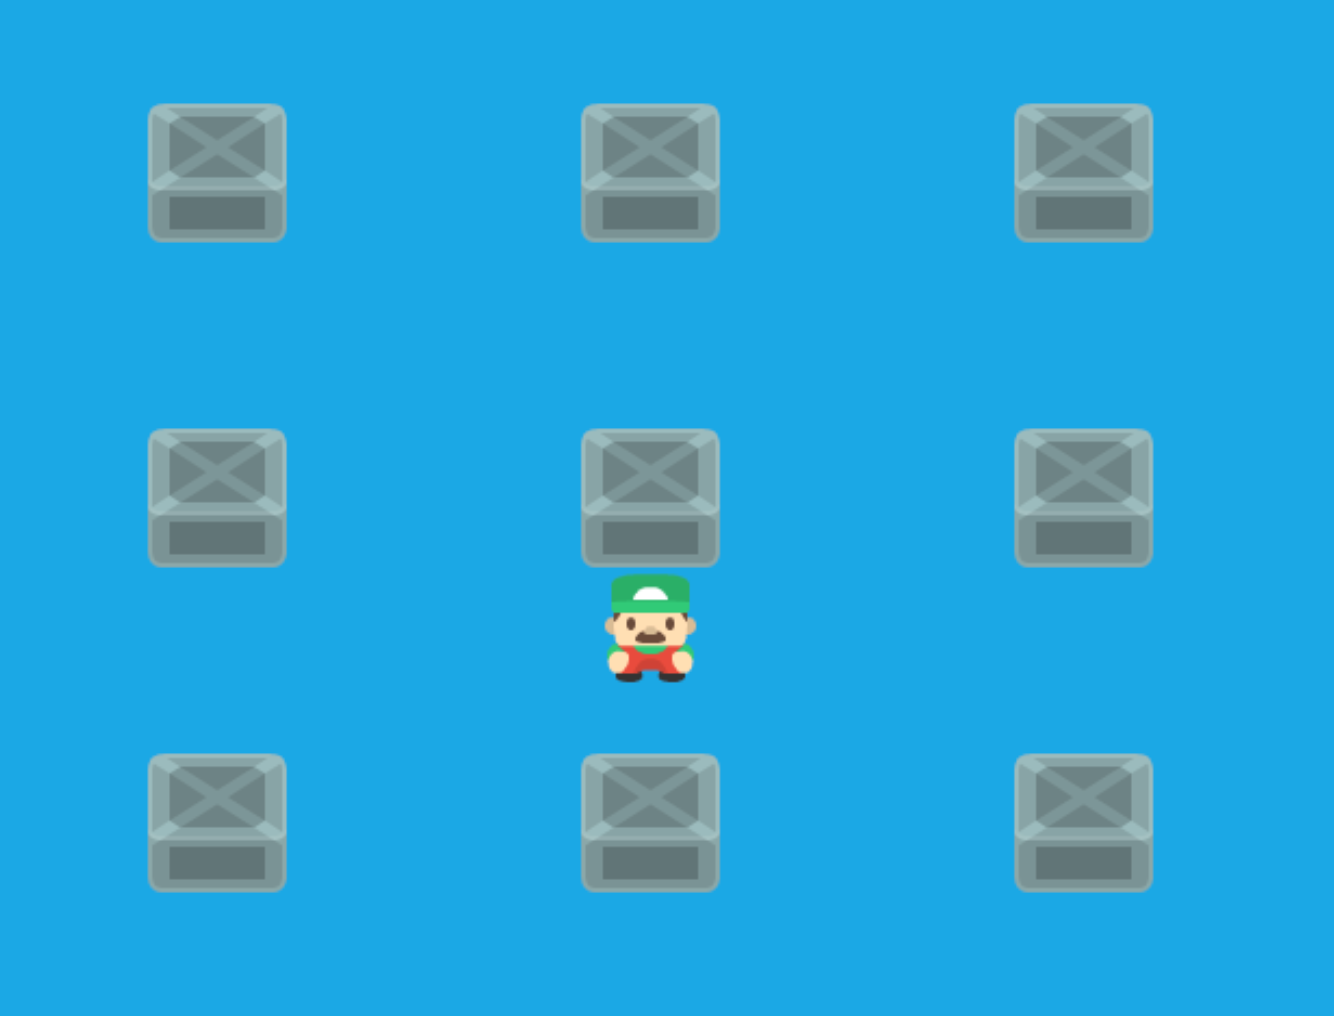
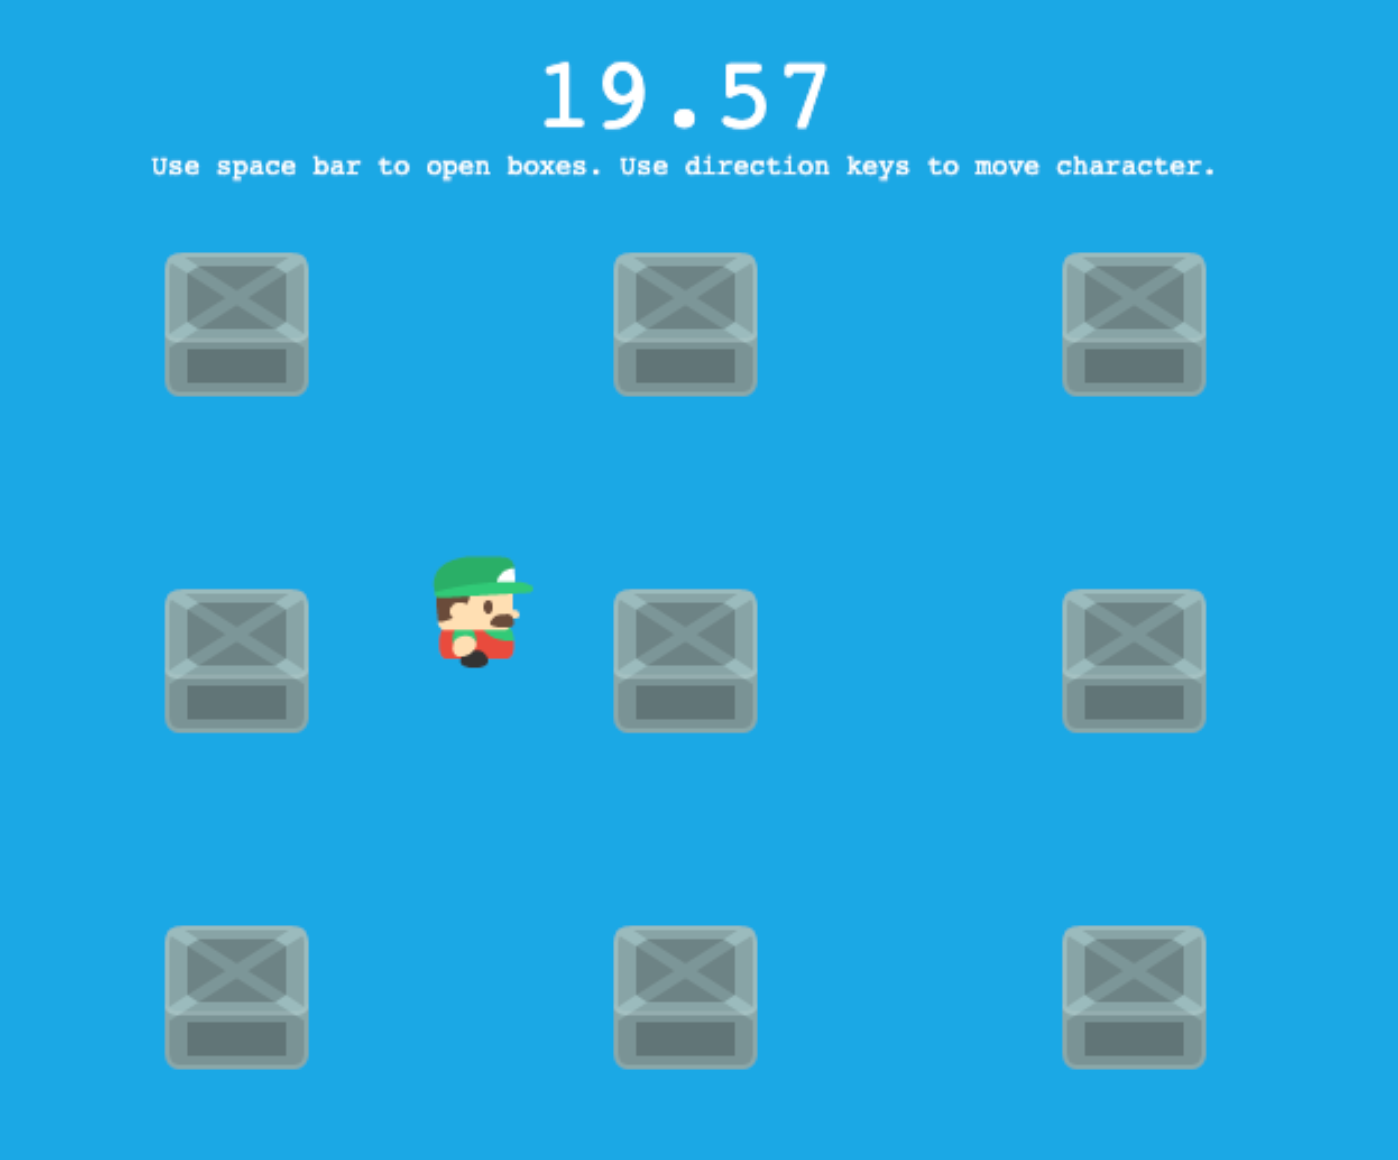
add directions and update screenshot

diff --git a/dist/assets/index.a8484678.js b/dist/assets/index.a8484678.js
@@ -6006,4 +6006,4 @@ return new `+this.key+`();
 * @author       Richard Davey <rich@photonstorm.com>
 * @copyright    2020 Photon Storm Ltd.
 * @license      {@link https://opensource.org/licenses/MIT|MIT License}
-*/var d=t(33),a=t(17),o={Actions:t(275),Animations:t(723),BlendModes:t(35),Cache:t(735),Cameras:t(738),Core:t(806),Class:t(0),Create:t(888),Curves:t(894),Data:t(896),Display:t(898),DOM:t(917),Events:t(918),Game:t(920),GameObjects:t(1011),Geom:t(483),Input:t(1308),Loader:t(1338),Math:t(193),Physics:t(1493),Plugins:t(1403),Renderer:t(1405),Scale:t(1412),ScaleModes:t(168),Scene:t(418),Scenes:t(1413),Structs:t(1415),Textures:t(1416),Tilemaps:t(1418),Time:t(1461),Tweens:t(1463),Utils:t(1481)};o.Sound=t(1492),o=a(!1,o,d),p.exports=o,n.Phaser=o}).call(this,t(600))}])})})(Ct);const Tt=Ft(Ct.exports),At={type:Tt.AUTO,parent:"game",backgroundColor:"#33A5E7",scale:{width:800,height:600,mode:Tt.Scale.FIT,autoCenter:Tt.Scale.CENTER_BOTH},physics:{default:"arcade",arcade:{gravity:{y:0}}}};class Ot extends Tt.Scene{constructor(){super("preloader")}preload(){this.load.spritesheet("sokoban","textures/sokoban_tilesheet.png",{frameWidth:64}),this.load.image("burger","textures/burger.png"),this.load.image("croissant","textures/croissant.png"),this.load.image("donutSprinkles","textures/donutSprinkles.png"),this.load.image("sushiSalmon","textures/sushiSalmon.png"),this.load.image("taco","textures/taco.png")}create(){this.add.image(400,500,"burger"),this.add.image(400,500,"croissant"),this.add.image(400,500,"donutSprinkles"),this.add.image(400,500,"sushiSalmon"),this.add.image(400,500,"taco"),this.anims.create({key:"down-idle",frames:[{key:"sokoban",frame:52}]}),this.anims.create({key:"down-walk",frames:this.anims.generateFrameNumbers("sokoban",{start:52,end:54}),frameRate:10,repeat:-1}),this.anims.create({key:"up-idle",frames:[{key:"sokoban",frame:55}]}),this.anims.create({key:"up-walk",frames:this.anims.generateFrameNumbers("sokoban",{start:55,end:57}),frameRate:10,repeat:-1}),this.anims.create({key:"left-idle",frames:[{key:"sokoban",frame:81}]}),this.anims.create({key:"left-walk",frames:this.anims.generateFrameNumbers("sokoban",{start:81,end:83}),frameRate:10,repeat:-1}),this.anims.create({key:"right-idle",frames:[{key:"sokoban",frame:78}]}),this.anims.create({key:"right-walk",frames:this.anims.generateFrameNumbers("sokoban",{start:78,end:80}),frameRate:10,repeat:-1}),this.scene.start("game")}}class Dt{constructor(ot,p){dt(this,"scene");dt(this,"label");dt(this,"timerEvent");dt(this,"duration",0);this.scene=ot,this.label=p}start(ot,p=45e3){this.stop(),this.duration=p,this.timerEvent=this.scene.time.addEvent({delay:p,callback:()=>{this.label.text="0",this.stop(),ot&&ot()}})}stop(){this.timerEvent&&(this.timerEvent.destroy(),this.timerEvent=void 0)}update(){if(!this.timerEvent||this.duration<=0)return;const ot=this.timerEvent.getElapsed(),E=(this.duration-ot)/1e3;this.label.text=`${E.toFixed(2)}`}}const St=[[1,0,3],[2,4,1],[3,4,2]],Et={y:"+=50",alpha:0,scale:0,duration:300};class It extends Tt.Scene{constructor(){super("game");dt(this,"cursors");dt(this,"player");dt(this,"boxGroup");dt(this,"activeBox");dt(this,"itemsGroup");dt(this,"countdown");dt(this,"selectedBoxes",[]);dt(this,"matchesCount",0)}init(){this.cursors=this.input.keyboard.createCursorKeys()}create(){const{width:p,height:E}=this.scale;this.player=this.physics.add.sprite(p*.5,E*.6,"sokoban").setSize(40,16).setOffset(12,38).play("down-idle"),this.player.setCollideWorldBounds(!0),this.boxGroup=this.physics.add.staticGroup(),this.createBoxes(),this.itemsGroup=this.add.group();const t=this.add.text(p*.5,50,"45 seconds",{fontSize:"45px"}).setOrigin(.5);this.countdown=new Dt(this,t),this.countdown.start(this.handleCountDownFinished.bind(this)),this.physics.add.collider(this.player,this.boxGroup,this.handlePlayerBoxCollide,void 0,this)}createBoxes(){const{width:p}=this.scale;let E=150,t=.25;const n=St.length,d=St[0].length;for(let a=0;a<n;++a){for(let o=0;o<d;++o)this.boxGroup.get(p*t,E,"sokoban",10).setSize(64,32).setOffset(0,32).setData("itemType",St[a][o]),t+=.25;t=.25,E+=150}}handleCountDownFinished(){this.pausePlayer();const{width:p,height:E}=this.scale;this.add.text(p*.5,E*.5,"You lose!",{fontSize:"48px",color:"red"}).setOrigin(.5)}handlePlayerBoxCollide(p,E){E.getData("opened")||this.activeBox||(this.activeBox=E,this.activeBox.setFrame(9))}openBox(p){if(!p)return;const E=p.getData("itemType");let t;switch(E){case 0:t=this.itemsGroup.get(p.x,p.y),t.setTexture("burger");break;case 1:t=this.itemsGroup.get(p.x,p.y),t.setTexture("donutSprinkles");break;case 2:t=this.itemsGroup.get(p.x,p.y),t.setTexture("croissant");break;case 3:t=this.itemsGroup.get(p.x,p.y),t.setTexture("sushiSalmon");break;case 4:t=this.itemsGroup.get(p.x,p.y),t.setTexture("taco");break}!t||(p.setData("opened",!0),t.setData("sorted",!0),t.setDepth(2e3),this.selectedBoxes.push({box:p,item:t}),t.scale=0,t.alpha=0,this.tweens.add({targets:t,y:"-=50",alpha:1,scale:1,duration:500,onComplete:()=>{if(E===0){this.handleStunPlayer();return}this.selectedBoxes.length<2||this.checkForMatch()}}),this.activeBox.setFrame(10),this.activeBox=void 0)}pausePlayer(){this.player.active=!1,this.player.setVelocity(0,0)}handleStunPlayer(){const{box:p,item:E}=this.selectedBoxes.pop();E.setTint(16711680),p.setFrame(7),this.pausePlayer(),this.time.delayedCall(1e3,()=>{E.setTint(1048575),p.setFrame(10),p.setData("opened",!1),this.tweens.add({targets:E,...Et,onComplete:()=>{this.player.active=!0}})})}checkForMatch(){const p=this.selectedBoxes.pop(),E=this.selectedBoxes.pop();if(E.item.texture!==p.item.texture){E.box.setData("opened",!1),p.box.setData("opened",!1),this.tweens.add({targets:[E.item,p.item],...Et,delay:1e3,onComplete:()=>{E.box.setData("opened",!1),p.box.setData("opened",!1)}});return}++this.matchesCount,this.time.delayedCall(1e3,()=>{E.box.setFrame(8),p.box.setFrame(8),this.matchesCount>=4&&(this.countdown.stop(),this.handleGameWon())})}handleGameWon(){this.pausePlayer();const{width:p,height:E}=this.scale;this.add.text(p*.5,E*.5,"You win!",{fontSize:"48px"}).setOrigin(.5)}updatePlayer(){if(!this.player.active)return;const p=200;if(this.cursors.left.isDown)this.player.setVelocity(-p,0),this.player.play("left-walk",!0);else if(this.cursors.right.isDown)this.player.setVelocity(p,0),this.player.play("right-walk",!0);else if(this.cursors.up.isDown)this.player.setVelocity(0,-p),this.player.play("up-walk",!0);else if(this.cursors.down.isDown)this.player.setVelocity(0,p),this.player.play("down-walk",!0);else{this.player.setVelocity(0,0);const t=this.player.anims.currentAnim.key,[n]=t.split("-");this.player.play(`${n}-idle`)}Tt.Input.Keyboard.JustUp(this.cursors.space)&&this.activeBox&&this.openBox(this.activeBox)}updateActiveBox(){!this.activeBox||Tt.Math.Distance.Between(this.player.x,this.player.y,this.activeBox.x,this.activeBox.y)<64||(this.activeBox.setFrame(10),this.activeBox=void 0)}update(){this.updatePlayer(),this.updateActiveBox(),this.children.each(p=>{const E=p;E.getData("sorted")||E.setDepth(E.y)}),this.countdown.update()}}new Tt.Game(Object.assign(At,{scene:[Ot,It]}));new Tt.Game(At);
+*/var d=t(33),a=t(17),o={Actions:t(275),Animations:t(723),BlendModes:t(35),Cache:t(735),Cameras:t(738),Core:t(806),Class:t(0),Create:t(888),Curves:t(894),Data:t(896),Display:t(898),DOM:t(917),Events:t(918),Game:t(920),GameObjects:t(1011),Geom:t(483),Input:t(1308),Loader:t(1338),Math:t(193),Physics:t(1493),Plugins:t(1403),Renderer:t(1405),Scale:t(1412),ScaleModes:t(168),Scene:t(418),Scenes:t(1413),Structs:t(1415),Textures:t(1416),Tilemaps:t(1418),Time:t(1461),Tweens:t(1463),Utils:t(1481)};o.Sound=t(1492),o=a(!1,o,d),p.exports=o,n.Phaser=o}).call(this,t(600))}])})})(Ct);const Tt=Ft(Ct.exports),At={type:Tt.AUTO,parent:"game",backgroundColor:"#33A5E7",scale:{width:800,height:600,mode:Tt.Scale.FIT,autoCenter:Tt.Scale.CENTER_BOTH},physics:{default:"arcade",arcade:{gravity:{y:0}}}};class Ot extends Tt.Scene{constructor(){super("preloader")}preload(){this.load.spritesheet("sokoban","textures/sokoban_tilesheet.png",{frameWidth:64}),this.load.image("burger","textures/burger.png"),this.load.image("croissant","textures/croissant.png"),this.load.image("donutSprinkles","textures/donutSprinkles.png"),this.load.image("sushiSalmon","textures/sushiSalmon.png"),this.load.image("taco","textures/taco.png")}create(){this.add.image(400,500,"burger"),this.add.image(400,500,"croissant"),this.add.image(400,500,"donutSprinkles"),this.add.image(400,500,"sushiSalmon"),this.add.image(400,500,"taco"),this.anims.create({key:"down-idle",frames:[{key:"sokoban",frame:52}]}),this.anims.create({key:"down-walk",frames:this.anims.generateFrameNumbers("sokoban",{start:52,end:54}),frameRate:10,repeat:-1}),this.anims.create({key:"up-idle",frames:[{key:"sokoban",frame:55}]}),this.anims.create({key:"up-walk",frames:this.anims.generateFrameNumbers("sokoban",{start:55,end:57}),frameRate:10,repeat:-1}),this.anims.create({key:"left-idle",frames:[{key:"sokoban",frame:81}]}),this.anims.create({key:"left-walk",frames:this.anims.generateFrameNumbers("sokoban",{start:81,end:83}),frameRate:10,repeat:-1}),this.anims.create({key:"right-idle",frames:[{key:"sokoban",frame:78}]}),this.anims.create({key:"right-walk",frames:this.anims.generateFrameNumbers("sokoban",{start:78,end:80}),frameRate:10,repeat:-1}),this.scene.start("game")}}class Dt{constructor(ot,p){dt(this,"scene");dt(this,"label");dt(this,"timerEvent");dt(this,"duration",0);this.scene=ot,this.label=p}start(ot,p=45e3){this.stop(),this.duration=p,this.timerEvent=this.scene.time.addEvent({delay:p,callback:()=>{this.label.text="0",this.stop(),ot&&ot()}})}stop(){this.timerEvent&&(this.timerEvent.destroy(),this.timerEvent=void 0)}update(){if(!this.timerEvent||this.duration<=0)return;const ot=this.timerEvent.getElapsed(),E=(this.duration-ot)/1e3;this.label.text=`${E.toFixed(2)}`}}const St=[[1,0,3],[2,4,1],[3,4,2]],Et={y:"+=50",alpha:0,scale:0,duration:300};class It extends Tt.Scene{constructor(){super("game");dt(this,"cursors");dt(this,"player");dt(this,"boxGroup");dt(this,"activeBox");dt(this,"itemsGroup");dt(this,"countdown");dt(this,"selectedBoxes",[]);dt(this,"matchesCount",0)}init(){this.cursors=this.input.keyboard.createCursorKeys()}create(){const{width:p,height:E}=this.scale;this.add.text(p*.5,80,"Use space bar to open boxes. Use direction keys to move character.",{fontSize:"12px"}).setOrigin(.5),this.player=this.physics.add.sprite(p*.5,E*.6,"sokoban").setSize(40,16).setOffset(12,38).play("down-idle"),this.player.setCollideWorldBounds(!0),this.boxGroup=this.physics.add.staticGroup(),this.createBoxes(),this.itemsGroup=this.add.group();const t=this.add.text(p*.5,50,"45 seconds",{fontSize:"45px"}).setOrigin(.5);this.countdown=new Dt(this,t),this.countdown.start(this.handleCountDownFinished.bind(this)),this.physics.add.collider(this.player,this.boxGroup,this.handlePlayerBoxCollide,void 0,this)}createBoxes(){const{width:p}=this.scale;let E=150,t=.25;const n=St.length,d=St[0].length;for(let a=0;a<n;++a){for(let o=0;o<d;++o)this.boxGroup.get(p*t,E,"sokoban",10).setSize(64,32).setOffset(0,32).setData("itemType",St[a][o]),t+=.25;t=.25,E+=150}}handleCountDownFinished(){this.pausePlayer();const{width:p,height:E}=this.scale;this.add.text(p*.5,E*.5,"You lose!",{fontSize:"48px",color:"red"}).setOrigin(.5)}handlePlayerBoxCollide(p,E){E.getData("opened")||this.activeBox||(this.activeBox=E,this.activeBox.setFrame(9))}openBox(p){if(!p)return;const E=p.getData("itemType");let t;switch(E){case 0:t=this.itemsGroup.get(p.x,p.y),t.setTexture("burger");break;case 1:t=this.itemsGroup.get(p.x,p.y),t.setTexture("donutSprinkles");break;case 2:t=this.itemsGroup.get(p.x,p.y),t.setTexture("croissant");break;case 3:t=this.itemsGroup.get(p.x,p.y),t.setTexture("sushiSalmon");break;case 4:t=this.itemsGroup.get(p.x,p.y),t.setTexture("taco");break}!t||(p.setData("opened",!0),t.setData("sorted",!0),t.setDepth(2e3),this.selectedBoxes.push({box:p,item:t}),t.scale=0,t.alpha=0,this.tweens.add({targets:t,y:"-=50",alpha:1,scale:1,duration:500,onComplete:()=>{if(E===0){this.handleStunPlayer();return}this.selectedBoxes.length<2||this.checkForMatch()}}),this.activeBox.setFrame(10),this.activeBox=void 0)}pausePlayer(){this.player.active=!1,this.player.setVelocity(0,0)}handleStunPlayer(){const{box:p,item:E}=this.selectedBoxes.pop();E.setTint(16711680),p.setFrame(7),this.pausePlayer(),this.time.delayedCall(1e3,()=>{E.setTint(1048575),p.setFrame(10),p.setData("opened",!1),this.tweens.add({targets:E,...Et,onComplete:()=>{this.player.active=!0}})})}checkForMatch(){const p=this.selectedBoxes.pop(),E=this.selectedBoxes.pop();if(E.item.texture!==p.item.texture){E.box.setData("opened",!1),p.box.setData("opened",!1),this.tweens.add({targets:[E.item,p.item],...Et,delay:1e3,onComplete:()=>{E.box.setData("opened",!1),p.box.setData("opened",!1)}});return}++this.matchesCount,this.time.delayedCall(1e3,()=>{E.box.setFrame(8),p.box.setFrame(8),this.matchesCount>=4&&(this.countdown.stop(),this.handleGameWon())})}handleGameWon(){this.pausePlayer();const{width:p,height:E}=this.scale;this.add.text(p*.5,E*.5,"You win!",{fontSize:"48px"}).setOrigin(.5)}updatePlayer(){if(!this.player.active)return;const p=200;if(this.cursors.left.isDown)this.player.setVelocity(-p,0),this.player.play("left-walk",!0);else if(this.cursors.right.isDown)this.player.setVelocity(p,0),this.player.play("right-walk",!0);else if(this.cursors.up.isDown)this.player.setVelocity(0,-p),this.player.play("up-walk",!0);else if(this.cursors.down.isDown)this.player.setVelocity(0,p),this.player.play("down-walk",!0);else{this.player.setVelocity(0,0);const t=this.player.anims.currentAnim.key,[n]=t.split("-");this.player.play(`${n}-idle`)}Tt.Input.Keyboard.JustUp(this.cursors.space)&&this.activeBox&&this.openBox(this.activeBox)}updateActiveBox(){!this.activeBox||Tt.Math.Distance.Between(this.player.x,this.player.y,this.activeBox.x,this.activeBox.y)<64||(this.activeBox.setFrame(10),this.activeBox=void 0)}update(){this.updatePlayer(),this.updateActiveBox(),this.children.each(p=>{const E=p;E.getData("sorted")||E.setDepth(E.y)}),this.countdown.update()}}new Tt.Game(Object.assign(At,{scene:[Ot,It]}));new Tt.Game(At);

diff --git a/src/scenes/Game.ts b/src/scenes/Game.ts
@@ -51,6 +51,15 @@ export default class Game extends Phaser.Scene {
   create() {
     const { width, height } = this.scale;
 
+
+    // add text about directions for playing
+    this.add
+      .text(width * 0.5, 80, "Use space bar to open boxes. Use direction keys to move character.", {
+        fontSize: "12px",
+      })
+      .setOrigin(0.5);
+
+
     this.player = this.physics.add
       .sprite(width * 0.5, height * 0.6, "sokoban")
       .setSize(40, 16)

diff --git a/dist/index.html b/dist/index.html
@@ -5,7 +5,7 @@
 	<meta charset="UTF-8" />
 	<meta name="viewport" content="width=device-width, initial-scale=1.0" />
 	<title>Memory Match Game</title>
-  <script type="module" crossorigin src="./assets/index.2f4ca545.js"></script>
+  <script type="module" crossorigin src="./assets/index.a8484678.js"></script>
 </head>
 
 <body>
